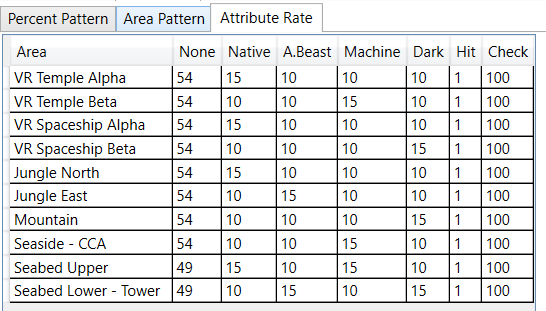
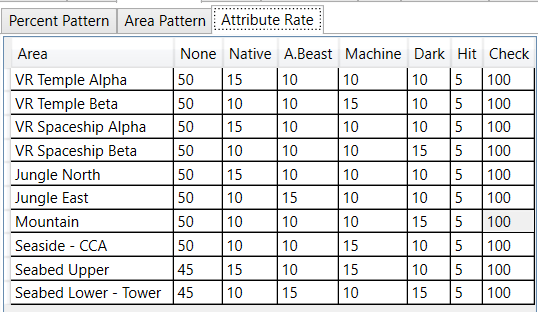
add drop-roll info

diff --git a/drop_roll.md b/drop_roll.md
@@ -4,26 +4,20 @@
 * 苦痛模式(Anguish)低级区域使用Pattern3，高级区域使用Pattern4，红盒仍为Pattern5
 
 #### EP1&2&4
-
 ![pp](./static/img/percent_patterns.jpg)
 
 ### 区域信息
-
 ![ap1](./static/img/ap1.png)
+
 ### 属性信息
-
-因EP4不存在属性信息，可能沿用EP1或者EP2，待确认
-
 #### EP1
 
 ![ar1](./static/img/ar1.png)
 
 #### EP2
 
-##### 非金黄
-
 ![ar2](./static/img/ar2.png)
 
-##### 金黄
+#### EP4
 
-![ar2-yellowboze](./static/img/ar3.png)
+![ar3](./static/img/ar3.png)
